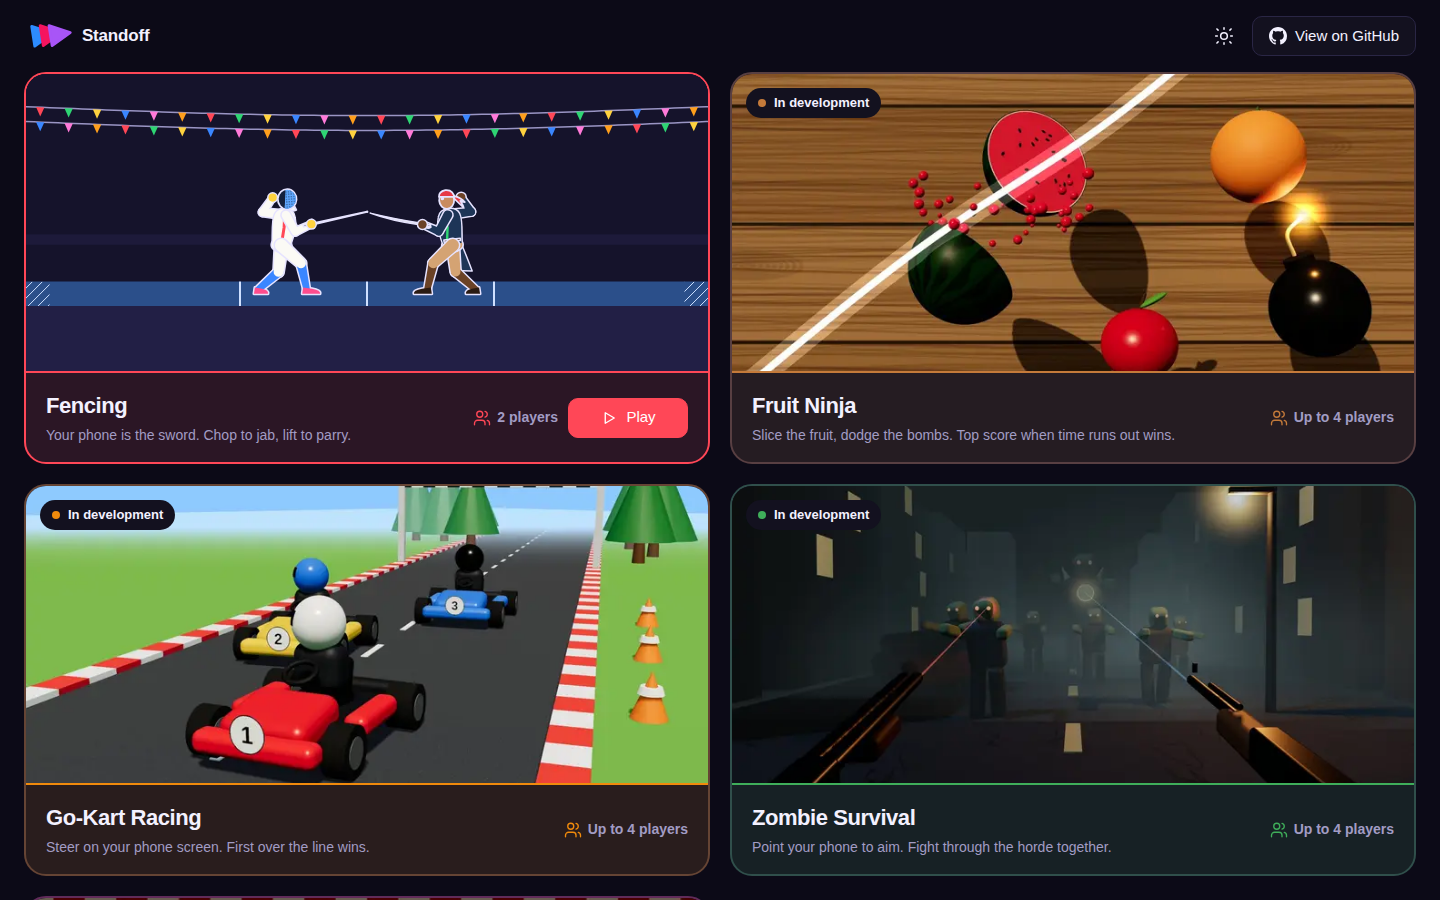
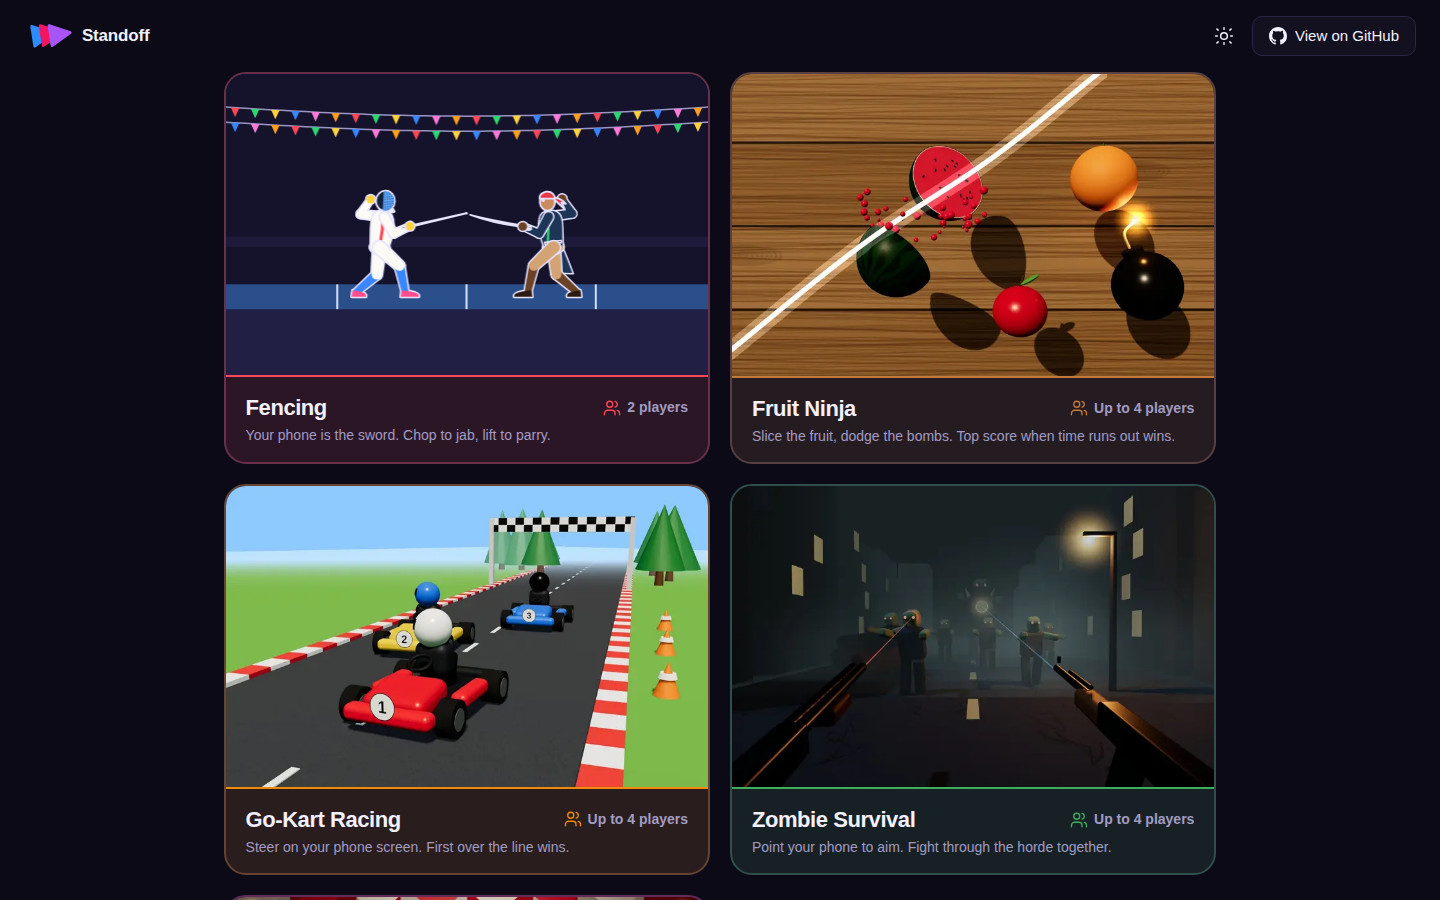
Click a card to play, and show covers uncropped
The whole card is now the button, so there is no separate Play button or player picker, and the In development badges are gone. Covers keep their 16 by 10 shape, and the grid narrows so two rows still fit on screen.

Claude-Session: https://claude.ai/code/session_01D1DBDL5jLRnzHEGNERorxo

diff --git a/src/platform/host/components/GameCard.tsx b/src/platform/host/components/GameCard.tsx
@@ -1,5 +1,4 @@
 "use client";
-import { useState } from "react";
 import { Icon } from "@/components/ui/Icon";
 import type { GameInfo } from "@/platform/games/game-api";
 
@@ -7,68 +6,43 @@ interface GameCardProps {
   game: GameInfo;
   /** The server is there and nothing else is opening a room. */
   canPlay: boolean;
-  /** What the Play button says while it cannot be pressed. */
-  waiting: string;
   onPlay(players: number): void;
 }
 
 const count = (players: number) => (players === 1 ? "1 player" : `${players} players`);
 
 /**
- * One game on the home dashboard. The cover fills the card and a plain
- * strip under it holds the name, the pitch and how to start. Games still
- * being built show what they will offer, so nobody hunts for a button.
+ * One game on the home dashboard. The whole card is the button: a click
+ * opens a room with a seat for as many players as the game takes, and
+ * whoever scans in plays. Games still being built are shown but do nothing.
  */
-export function GameCard({ game, canPlay, waiting, onPlay }: GameCardProps) {
+export function GameCard({ game, canPlay, onPlay }: GameCardProps) {
   const ready = game.status === "ready";
-  // Two players is the default wherever it is offered, since most games are head to head.
-  const [players, setPlayers] = useState(game.players.includes(2) ? 2 : game.players[0]!);
+  const most = Math.max(...game.players);
   const Cover = game.Cover;
 
   return (
-    <article className={`game-card ${ready ? "game-card--ready" : ""}`} style={{ "--game": game.color } as React.CSSProperties}>
-      <div className="game-card__cover">
+    <button
+      type="button"
+      className="game-card"
+      style={{ "--game": game.color } as React.CSSProperties}
+      onClick={() => onPlay(most)}
+      disabled={!ready || !canPlay}
+      aria-label={ready ? `Play ${game.title}` : `${game.title}, coming later`}
+    >
+      <span className="game-card__cover">
         <Cover />
-        {!ready && (
-          <span className="game-card__badge">
-            <span className="game-card__dot" />
-            In development
-          </span>
-        )}
-      </div>
-      <div className="game-card__body">
-        <div className="game-card__text">
-          <h2 className="game-card__title">{game.title}</h2>
-          <p className="game-card__tagline">{game.tagline}</p>
-        </div>
-        {ready ? (
-          <div className="game-card__actions">
-            {game.players.length > 1 ? (
-              <div className="segmented" role="group" aria-label={`Players for ${game.title}`}>
-                {game.players.map((option) => (
-                  <button key={option} type="button" aria-pressed={option === players} onClick={() => setPlayers(option)}>
-                    {option}
-                  </button>
-                ))}
-              </div>
-            ) : (
-              <span className="game-card__players">
-                <Icon name="users" size={18} />
-                {count(players)}
-              </span>
-            )}
-            <button type="button" className="btn btn--primary game-card__play" onClick={() => onPlay(players)} disabled={!canPlay}>
-              <Icon name="play" />
-              {canPlay ? "Play" : waiting}
-            </button>
-          </div>
-        ) : (
+      </span>
+      <span className="game-card__body">
+        <span className="game-card__head">
+          <span className="game-card__title">{game.title}</span>
           <span className="game-card__players">
             <Icon name="users" size={18} />
-            Up to {count(Math.max(...game.players))}
+            {game.players.length > 1 ? `Up to ${count(most)}` : count(most)}
           </span>
-        )}
-      </div>
-    </article>
+        </span>
+        <span className="game-card__tagline">{game.tagline}</span>
+      </span>
+    </button>
   );
 }

diff --git a/src/styles/home.css b/src/styles/home.css
@@ -43,43 +43,63 @@
   font-size: 14px;
 }
 
+/*
+  Covers are 16 by 10 and are never cropped. So the columns are only as
+  wide as lets two rows of cards, cover plus text, fit under the bar.
+*/
 .home__grid {
   --bar-h: 76px;
   --gap: 20px;
+  --body: 86px;
+  --row: calc((100dvh - var(--bar-h) - var(--gap) - 24px) / 2);
   display: grid;
   grid-template-columns: repeat(2, minmax(0, 1fr));
-  grid-auto-rows: max(320px, calc((100dvh - var(--bar-h) - var(--gap) * 2) / 2));
   gap: var(--gap);
+  width: 100%;
+  max-width: calc((var(--row) - var(--body)) * 1.6 * 2 + var(--gap) + 48px);
+  min-width: 0;
+  margin: 0 auto;
   padding: 0 24px 24px;
 }
 
-/* Each card is tinted with its game's colour, set inline as --game. */
+/* Each card is tinted with its game's colour, set inline as --game. The whole card is the button. */
 .game-card {
   display: flex;
   flex-direction: column;
-  min-height: 0;
+  min-width: 0;
+  padding: 0;
   border: 2px solid color-mix(in srgb, var(--game) 30%, var(--border));
   border-radius: 22px;
   background: color-mix(in srgb, var(--game) 10%, var(--bg));
+  color: var(--text);
+  font: inherit;
+  text-align: left;
   overflow: hidden;
+  cursor: pointer;
   transition:
     border-color 160ms ease,
     transform 160ms ease;
 }
 
-.game-card:hover {
+.game-card:hover:not(:disabled),
+.game-card:focus-visible {
   border-color: var(--game);
-  transform: translateY(-2px);
+  transform: translateY(-3px);
 }
 
-.game-card--ready {
-  border-color: var(--game);
+.game-card:focus-visible {
+  outline: 3px solid var(--game);
+  outline-offset: 3px;
+}
+
+.game-card:disabled {
+  cursor: default;
 }
 
 .game-card__cover {
   position: relative;
-  flex: 1;
-  min-height: 0;
+  display: block;
+  aspect-ratio: 16 / 10;
   background: var(--bg-elevated);
 }
 
@@ -93,60 +113,32 @@
   object-fit: cover;
 }
 
-.game-card__badge {
-  position: absolute;
-  top: 14px;
-  left: 14px;
-  display: inline-flex;
-  align-items: center;
-  gap: 8px;
-  padding: 5px 12px;
-  border-radius: 999px;
-  background: var(--bg);
-  color: var(--text);
-  font-size: 13px;
-  font-weight: 600;
-}
-
-.game-card__dot {
-  width: 8px;
-  height: 8px;
-  border-radius: 50%;
-  background: var(--game);
-}
-
 .game-card__body {
+  display: flex;
+  flex-direction: column;
+  gap: 2px;
+  min-height: var(--body);
+  padding: 14px 20px;
+  border-top: 2px solid var(--game);
+}
+
+.game-card__head {
   display: flex;
   align-items: center;
   justify-content: space-between;
   gap: 16px;
-  padding: 16px 20px;
-  border-top: 2px solid var(--game);
-}
-
-.game-card__text {
-  min-width: 0;
 }
 
 .game-card__title {
-  margin: 0;
   font-size: 22px;
   font-weight: 800;
   letter-spacing: -0.02em;
 }
 
 .game-card__tagline {
-  margin: 4px 0 0;
   color: var(--text-muted);
   font-size: 14px;
   line-height: 1.4;
-}
-
-.game-card__actions {
-  display: flex;
-  flex-shrink: 0;
-  align-items: center;
-  gap: 10px;
 }
 
 .game-card__players {
@@ -158,12 +150,6 @@
   font-size: 14px;
   font-weight: 600;
   white-space: nowrap;
-}
-
-.game-card__play {
-  min-width: 120px;
-  border-color: var(--game);
-  background: var(--game);
 }
 
 .game-card__players svg {
@@ -181,23 +167,7 @@
 
   .home__grid {
     grid-template-columns: minmax(0, 1fr);
-    grid-auto-rows: auto;
+    max-width: none;
     padding: 0 16px 16px;
-  }
-
-  .game-card__cover {
-    flex: none;
-    aspect-ratio: 16 / 10;
-  }
-
-  .game-card__dot {
-  width: 8px;
-  height: 8px;
-  border-radius: 50%;
-  background: var(--game);
-}
-
-.game-card__body {
-    flex-wrap: wrap;
   }
 }

diff --git a/src/platform/host/components/Home.tsx b/src/platform/host/components/Home.tsx
@@ -11,7 +11,7 @@ import { GameCard } from "./GameCard";
 
 /**
  * The home screen: every game as a big card, two to a row, so the whole
- * line up is visible at once. Play on a card opens a room for that game.
+ * line up is visible at once. Clicking a card opens a room for that game.
  */
 export function Home() {
   const host = useHostRoom();
@@ -55,7 +55,7 @@ export function Home() {
       )}
       <main className="home__grid">
         {GAMES.map((game) => (
-          <GameCard key={game.id} game={game} canPlay={canPlay} waiting={starting ? "Opening" : "Connecting"} onPlay={(players) => play(game.id, players)} />
+          <GameCard key={game.id} game={game} canPlay={canPlay} onPlay={(players) => play(game.id, players)} />
         ))}
       </main>
     </div>

diff --git a/README.md b/README.md
@@ -16,7 +16,7 @@ The home screen. Every game is a big card, two to a row, each tinted in its own 
 
 <img src="docs/screenshots/home-dark.png" alt="The same home screen in dark mode" width="100%" />
 
-Play opens a room. The QR code waits in the middle, then moves to the bottom left once someone joins, until the game starts. The logo at the top left always leads home.
+Clicking a card opens a room. The QR code waits in the middle, then moves to the bottom left once someone joins, until the game starts. The logo at the top left always leads home.
 
 <img src="docs/screenshots/stage-join.png" alt="The fencing strip with the QR code in the middle" width="100%" />
 
@@ -58,7 +58,7 @@ On the phone: a name, then pick a fencer and calibrate. The drawing shows where 
 
 ## How to play
 
-1. On the computer, pick a game and press **Play**. Scan the QR code with each phone, type a name and tap **Join**.
+1. On the computer, click a game. Scan the QR code with each phone, type a name and tap **Join**.
 2. For fencing, pick a fencer. Hold the phone flat like a sword, top edge pointing at the middle of the screen. When the dot sits in the circle, tap **Calibrate** and hold still through the countdown. Then **Ready**.
 3. Fence:
    * **Aim** by tilting the phone. A jab only lands if your tip points at your opponent.

diff --git a/src/games/README.md b/src/games/README.md
@@ -6,7 +6,7 @@ Every game lives in its own folder here and never imports another game. That is 
 
 The platform (`src/platform`) runs the room, the same way for every game:
 
-* The home screen cards, and Play, which opens a room for the chosen game and player count.
+* The home screen cards. Clicking one opens a room with a seat for the most players the game takes. The room seats are fixed then, so a game should start with fewer if not everyone joins.
 * The QR code: big in the middle until someone joins, then bottom left until the game calls `room.setPlaying(true)`.
 * The Standoff logo top left, which always goes home, and the tool bar top right.
 * On the phone: the name screen, joining, reconnecting, and the header bar. Join is the one tap that unlocks sound, motion access and the wake lock, so a game's phone screen starts with all three ready.
